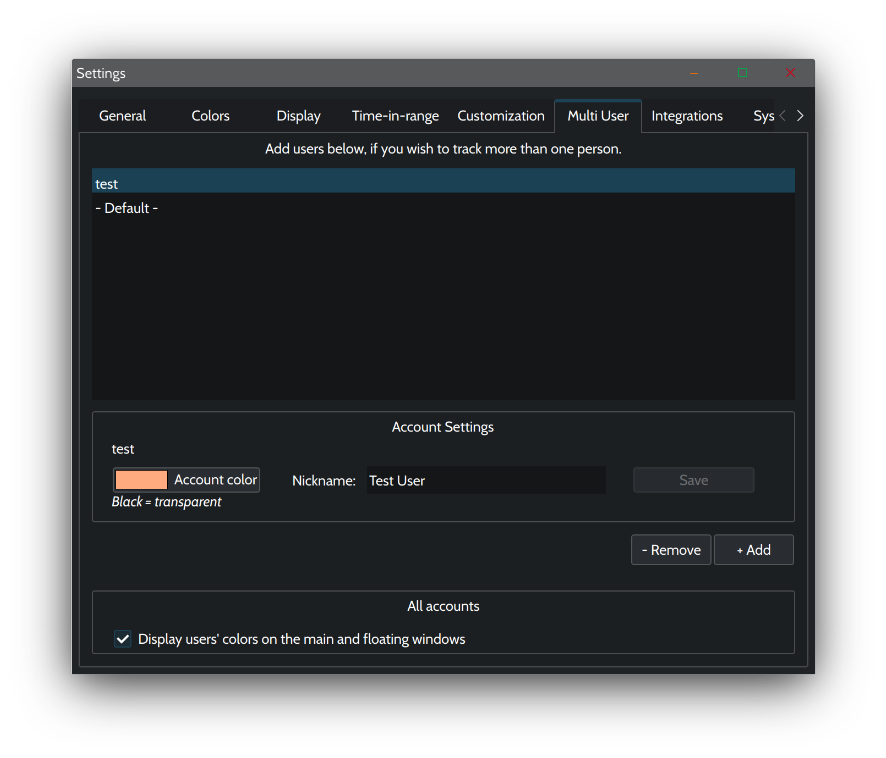
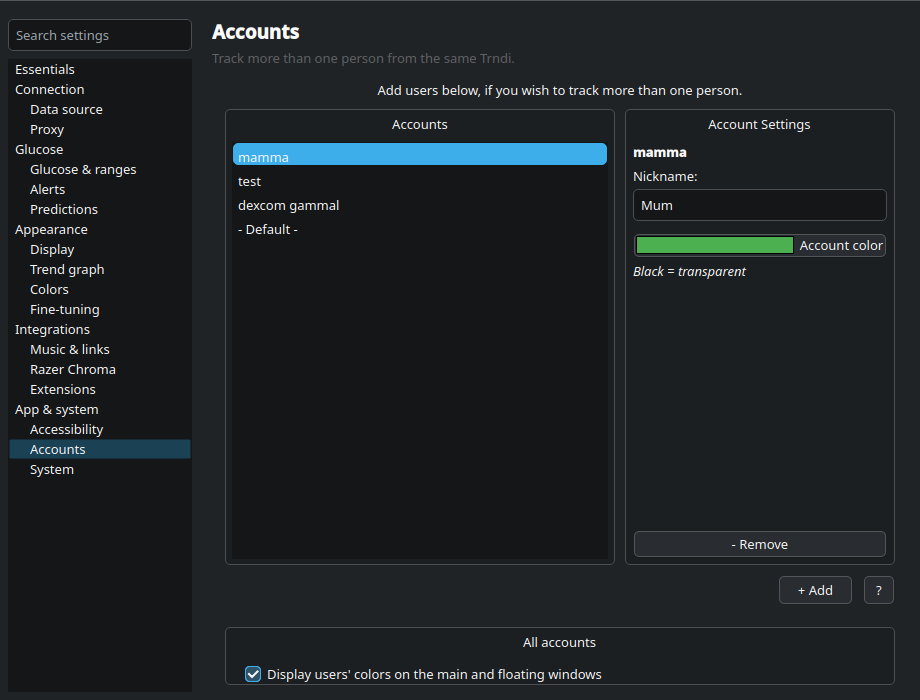
Update screenshot of multiuser

diff --git a/doc/Linux.md b/doc/Linux.md
@@ -11,7 +11,7 @@ On **Wayland** sessions Trndi draws its own title bar instead: the compositor's 
 **Tiling compositors** (Hyprland, sway, river, …) are an exception: they intentionally draw no title bar and windows are managed with keybinds, so `auto` skips the drawn bar there and the window simply keeps the compositor's border. Set `ux.own_titlebar=on` if you run Trndi floating and want the colored bar anyway.
 
 ## Multiple users
-Each user gets their own color and nickname (Settings > Multi User). With the native (X11) title bar there's nothing to badge, so the window title is prefixed with `[name] Trndi` and a small sidebar showing the account appears in the window itself. With the drawn title bar (automatic on Wayland desktops other than tiling compositors, or forced with `ux.own_titlebar=on`), the nickname rides in the bar itself as a clickable badge at the top right — in the account color, exactly like the Windows title-bar badge — and clicking it opens Settings. The caption prefix and the sidebar are then dropped as redundant, and the bar goes back to following your glucose color. Accounts without a color get a badge tinted from the bar, so it stays readable whatever the reading is.
+Each user gets their own color and nickname (Settings > Accounts). With the native (X11) title bar there's nothing to badge, so the window title is prefixed with `[name] Trndi` and a small sidebar showing the account appears in the window itself. With the drawn title bar (automatic on Wayland desktops other than tiling compositors, or forced with `ux.own_titlebar=on`), the nickname rides in the bar itself as a clickable badge at the top right — in the account color, exactly like the Windows title-bar badge — and clicking it opens Settings. The caption prefix and the sidebar are then dropped as redundant, and the bar goes back to following your glucose color. Accounts without a color get a badge tinted from the bar, so it stays readable whatever the reading is.
 
 ## Notifications
 Trndi auto-selects a notification backend, no configuration needed:

diff --git a/guides/Multiuser.md b/guides/Multiuser.md
@@ -3,9 +3,9 @@
 
 ## Adding a user
 * Start Trndi as usual
-* Richt-click and open settings
-* Click the "Multi User" tab
-* Click Add
+* Right-click and open settings
+* Open the __Accounts__ page (under _App & system_ in the sidebar)
+* Click __+ Add__ and enter a name
 * Close the window and __save settings__
 * __A new user has been created__
 ![User select](/doc/img/user_config.png)
@@ -25,7 +25,7 @@ applied once you have chosen — accounts can run Trndi in different languages.
 
 ## Customizing a user
 * In the user list, click the user's username
-* Below choose an account color and nickname
+* In the __Account Settings__ panel next to the list, choose an account color and nickname
 > Edits are kept while you browse the user list, but nothing is stored until you close the settings window and __save settings__ — closing without saving discards them, just like every other setting.
 
 The color chosen will be assigned to the window when Trndi loads the user.

diff --git a/doc/Windows.md b/doc/Windows.md
@@ -7,7 +7,7 @@ Trndi is not _signed_ (due to the cost of doing so), so Windows SmartScreen may 
 Trndi can color the entire window (including the title bar; where the close/minimize buttons are). If you prefer to have a normal title bar you can customize this in Settings > Colors > "Color the title bar".
 
 ## Multiple users
-Each user gets their own color and nickname (Settings > Multi User). On Windows, the nickname appears as a colored badge in the top-right of the title bar — click it to jump straight to Settings.
+Each user gets their own color and nickname (Settings > Accounts). On Windows, the nickname appears as a colored badge in the top-right of the title bar — click it to jump straight to Settings.
 
 When more than one user is configured, Trndi asks which one to use at start-up; this selection dialog shows up as its own entry in the taskbar.
 
